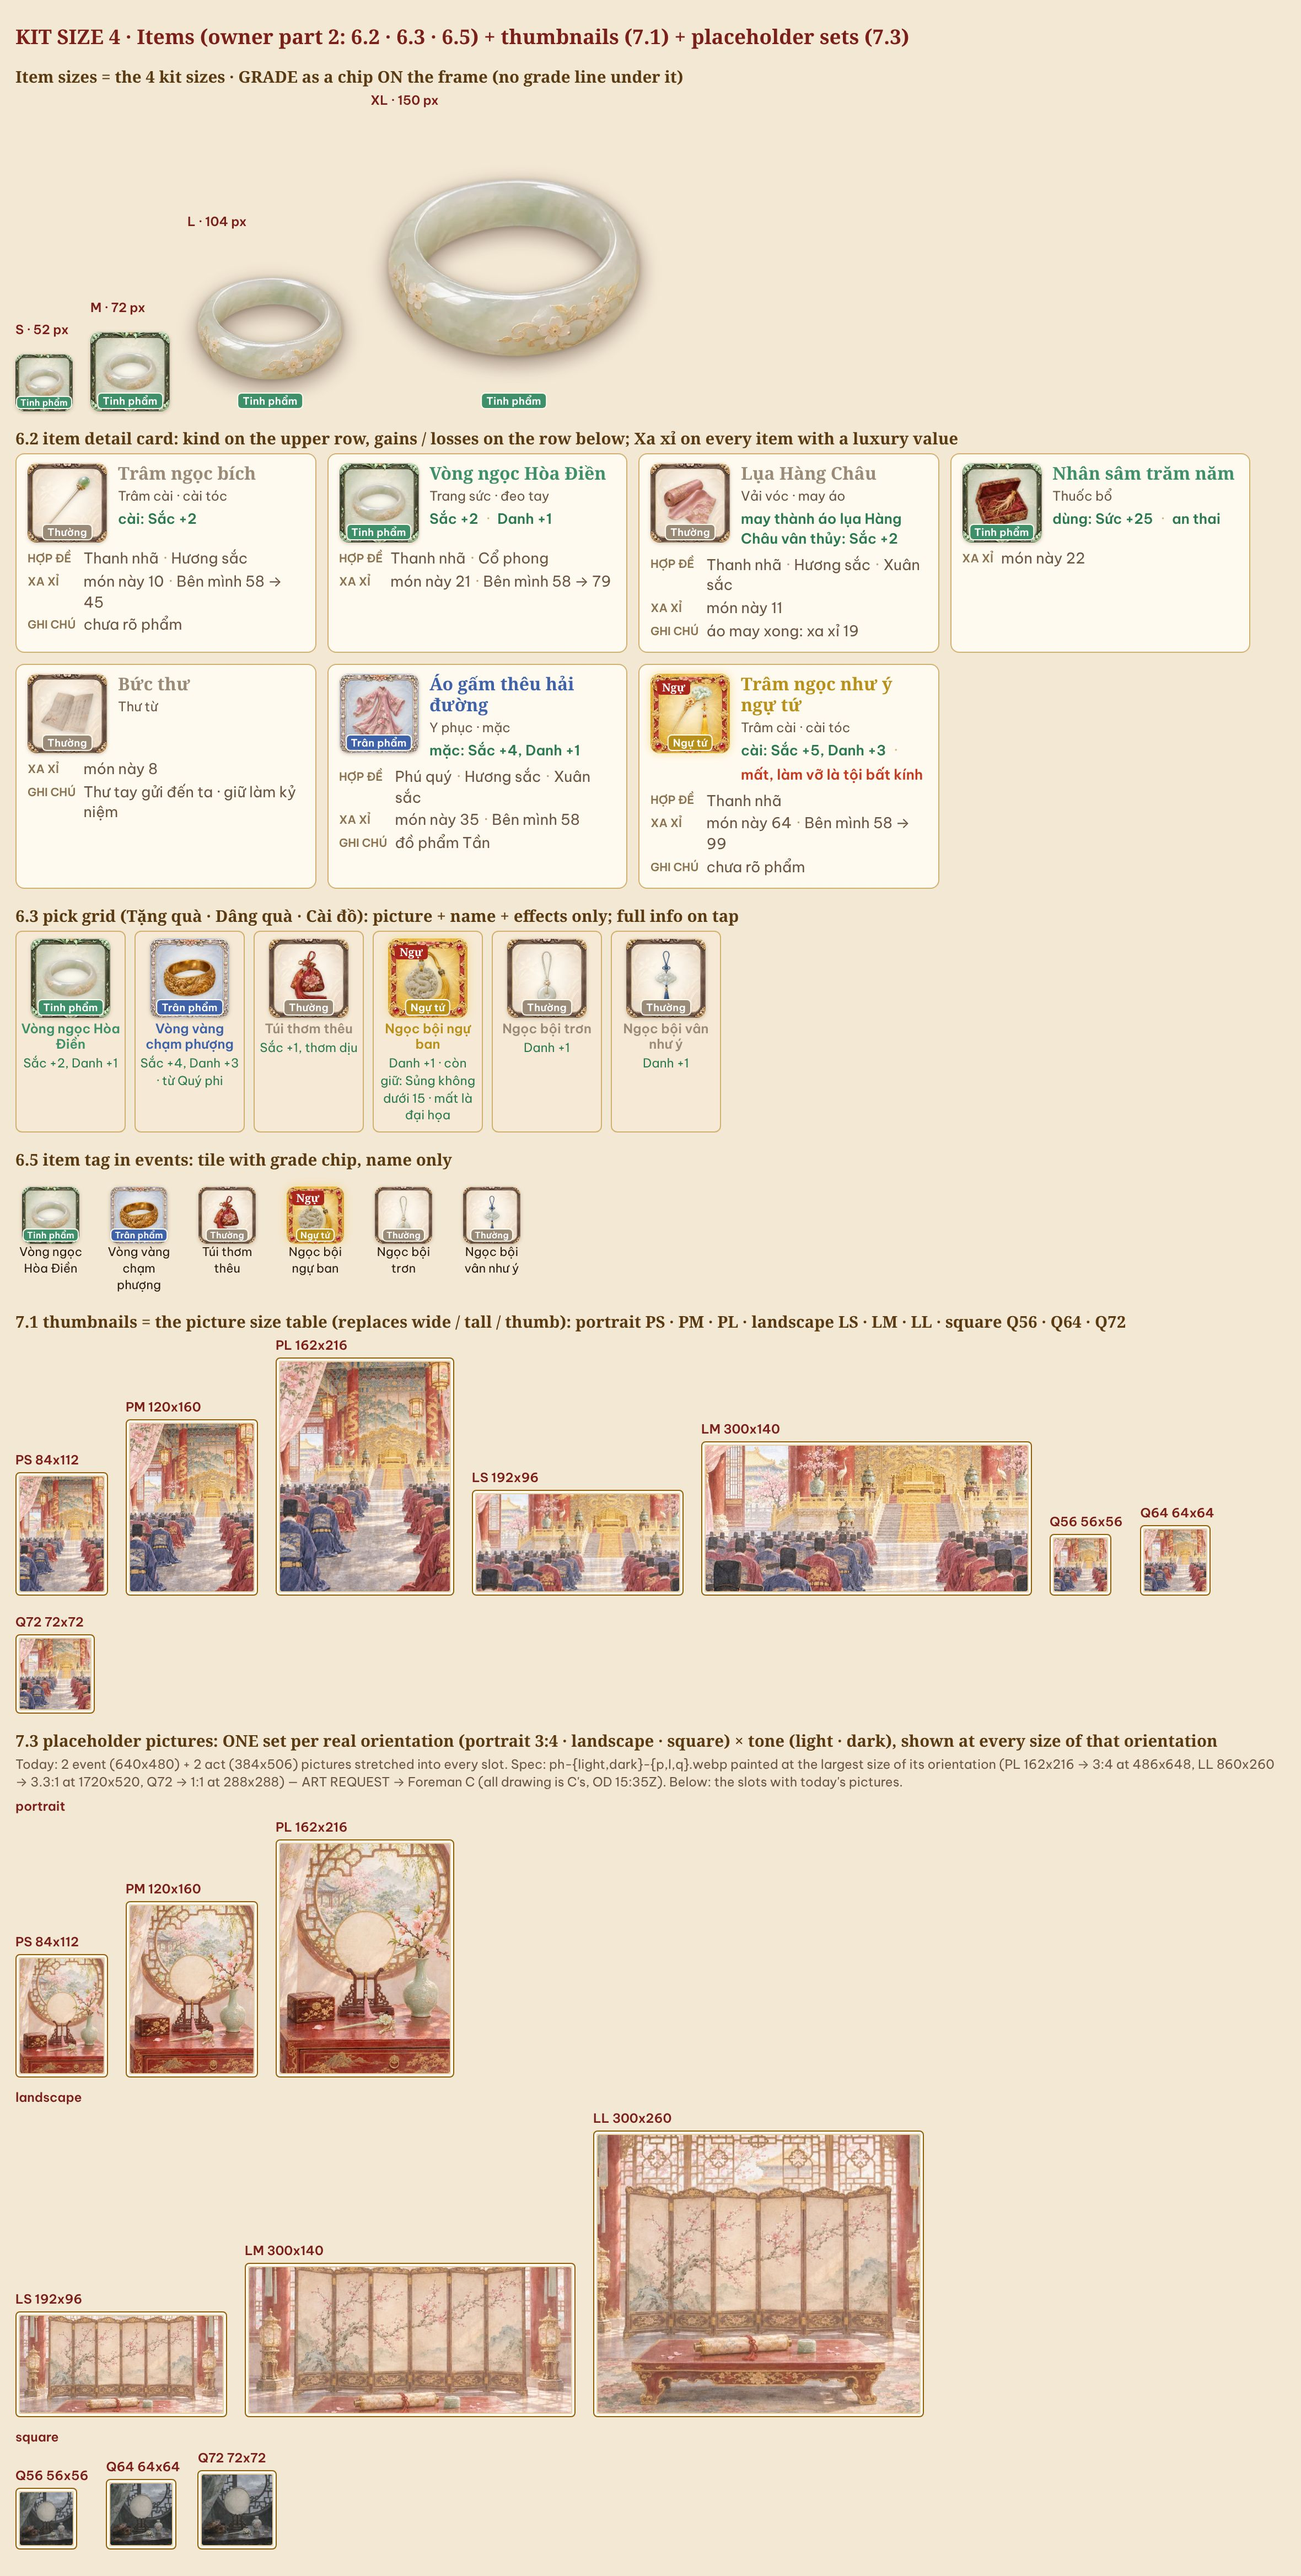
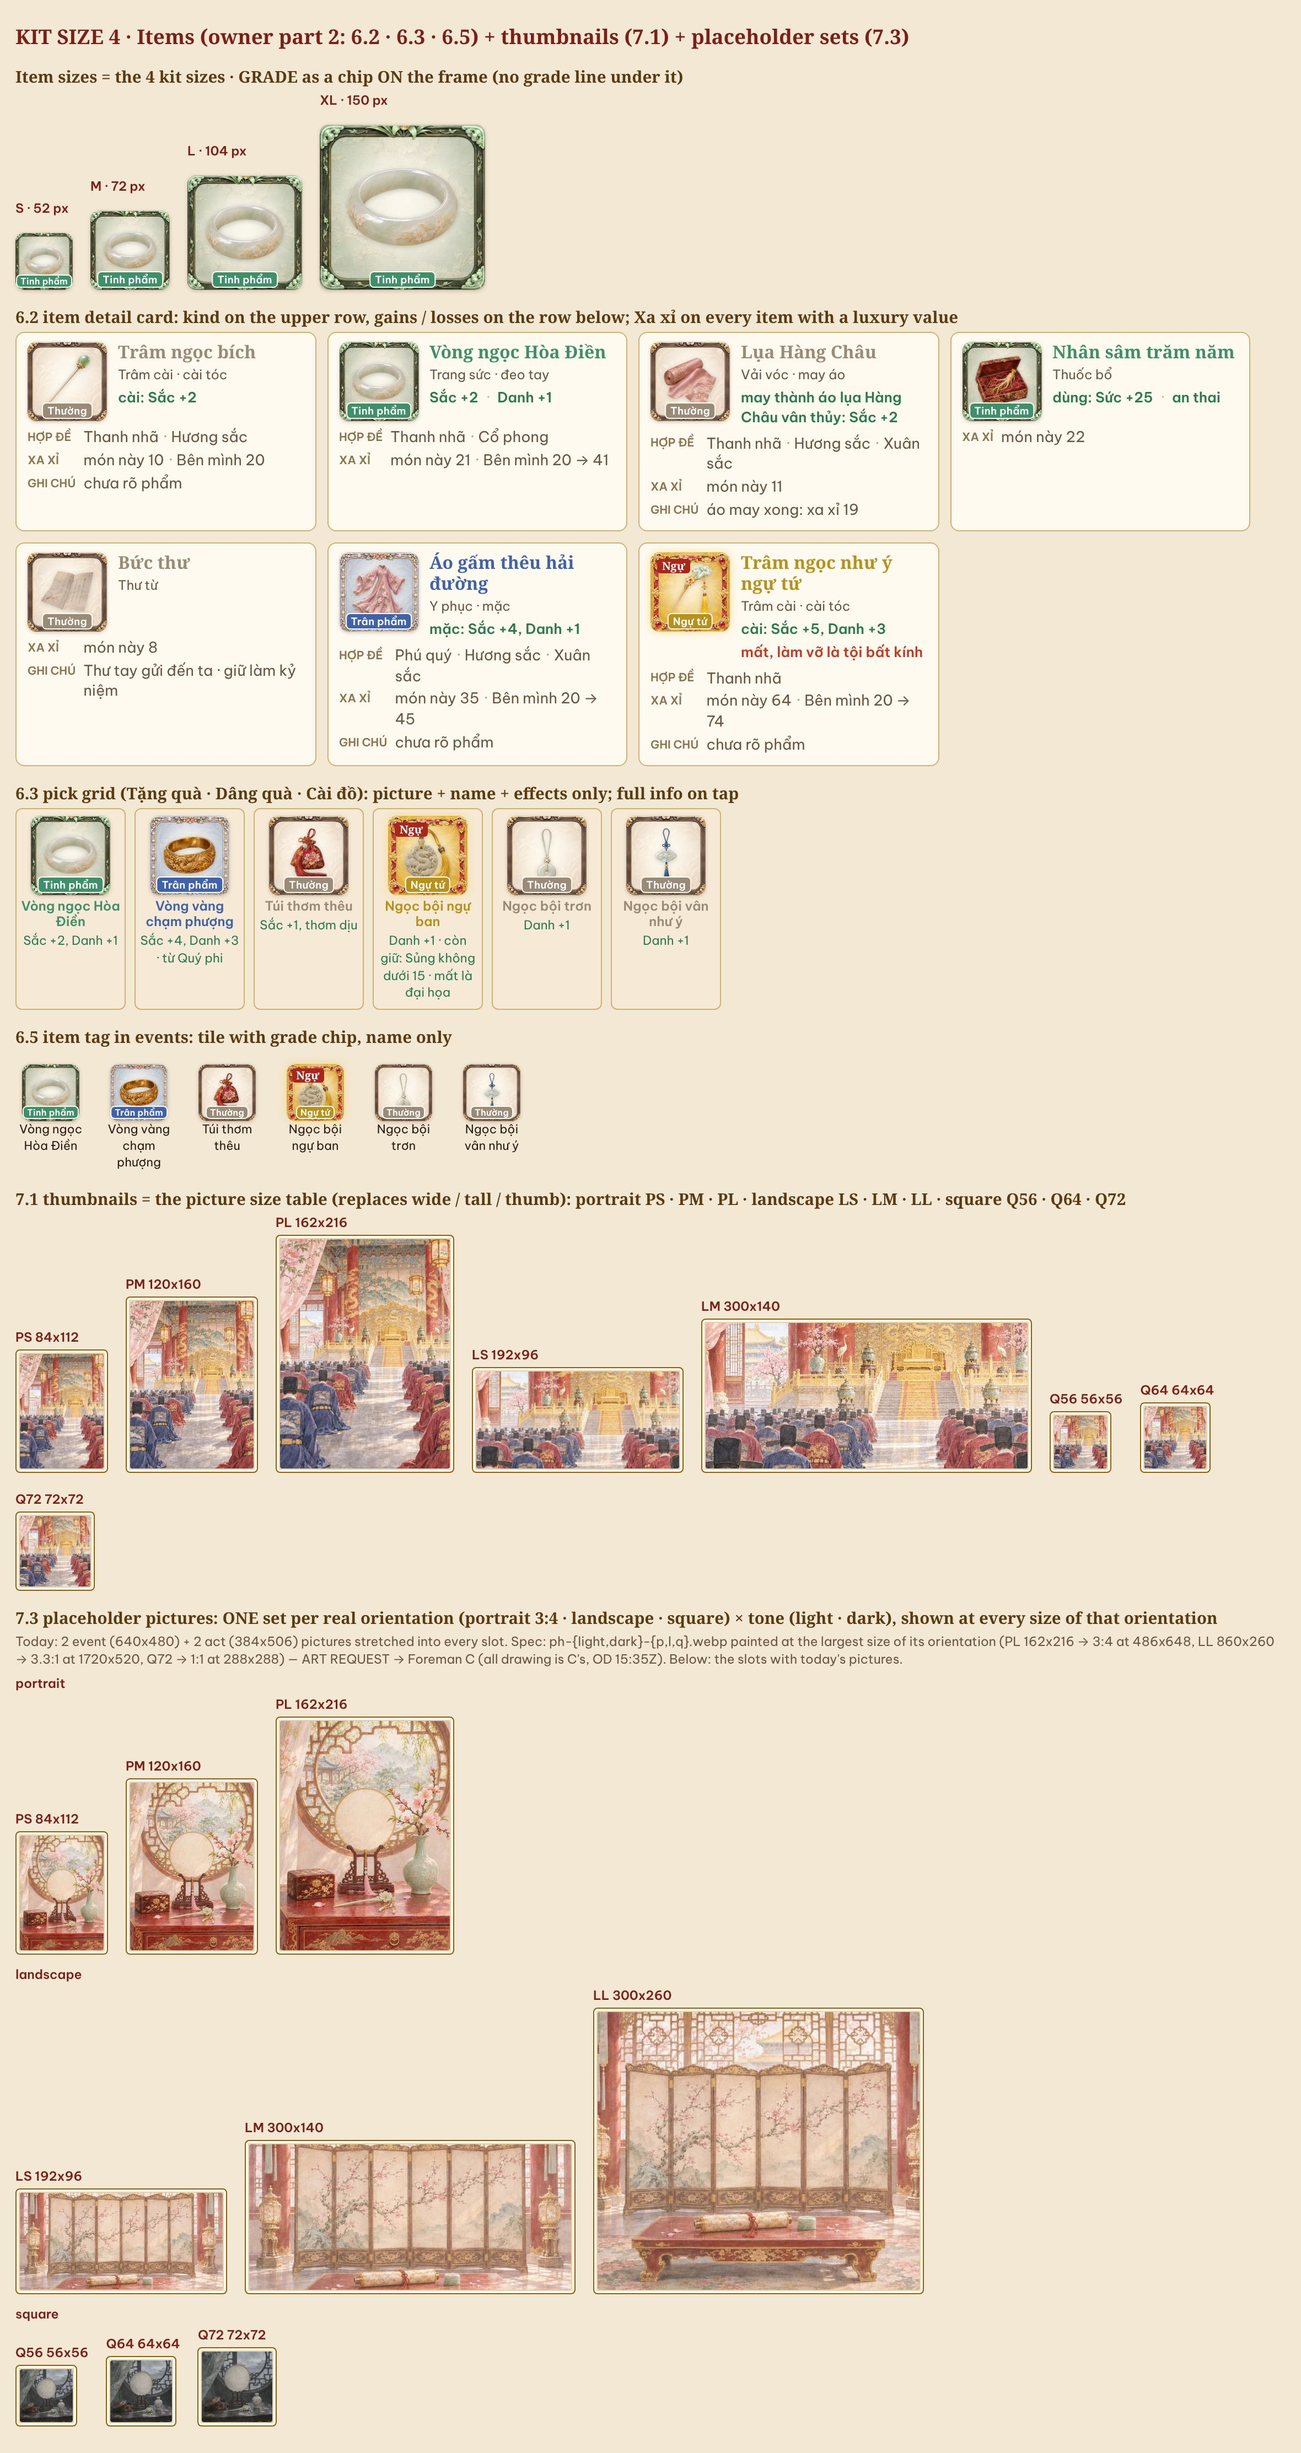
kit-size: items sheet — same kit item frame at all 4 sizes, loss on its own red line, no ghost row
Claude-Session: https://claude.ai/code/session_01UV1Szk9smUkxoioTZMD7KJ

diff --git a/dev/build/jksize.js b/dev/build/jksize.js
@@ -169,19 +169,19 @@ const KSZ_ITEM={S:"sm",M:"md",L:"lg",XL:"xl"};
 .kszidt{display:flex;flex-direction:column;gap:3px;min-width:0}
 .kszidt>b{font:700 1rem/1.2 var(--display,serif)}
 .kszidt>.kszk{font-size:.74rem;color:var(--dim,#6b5643)}
-.kszidt>.kszfx{display:flex;flex-wrap:wrap;gap:4px}
+.kszidt>.kszfx{display:flex;flex-wrap:wrap;gap:4px}.kszidt>.kszloss,.kszidt>.kszloss .ef{color:var(--bad,#c23b22)}
 .kszpick{display:grid;grid-template-columns:repeat(auto-fill,minmax(96px,1fr));gap:8px}
 .kszpick>div{display:flex;flex-direction:column;align-items:center;gap:3px;text-align:center;padding:6px 4px;border:1px solid var(--line,#d2b071);border-radius:6px;background:var(--panel2,#f6ead6)}
 .kszpick>div>b{font:600 .74rem/1.2 var(--body)}.kszpick>div>small{font-size:.7rem;color:var(--good,#2d7a52)}
 .kszphg{display:grid;grid-template-columns:auto repeat(3,auto);gap:8px 14px;align-items:end;font-size:.7rem}`;document.head.appendChild(st)})();
 function kszItemTile(k,size){const I=kitItemInfo(k);const G=KIT_GRADE[Math.max(0,Math.min(4,I.grade|0))];
- return `<span class="kszit" data-s="${size}">${kitItem({src:I.src,name:"",grade:I.grade,size:KSZ_ITEM[size]})}<b class="kszgc" style="--kgc:${G.c}">${I.gname||G.n}</b></span>`}
+ return `<span class="kszit" data-s="${size}">${kitItem({src:I.src,name:"",grade:I.grade,size:KSZ_ITEM[size],frame:true})}<b class="kszgc" style="--kgc:${G.c}">${I.gname||G.n}</b></span>`}
 function kszItemDetail(k){const I=kitItemInfo(k);const tmp=document.createElement("div");tmp.innerHTML=kitItemDetail(k,{cls:"kidet-strip"});
- const rows=[...tmp.querySelectorAll(".kidrows .kr")];const fx=[],keep=[];let kind="";
+ const rows=[...tmp.querySelectorAll(".kidrows .kr")];const fx=[],loss=[],keep=[];let kind="";
  for(const r of rows){const l=(r.querySelector(".krl")||{}).textContent||"";const v=r.querySelector(".krv");
-  if(/^(Được|Mất|dùng)/i.test(l))fx.push(v.innerHTML);else if(/^Loại/.test(l))kind=v.textContent;else if(/^Phẩm/.test(l)){}else keep.push(r.outerHTML)}
+  if(/^(Được|dùng)/i.test(l))fx.push(v.innerHTML);else if(/^(Mất|Kèm)/i.test(l))loss.push(v.innerHTML);else if(/^Loại/.test(l))kind=v.textContent;else if(/^Phẩm/.test(l)){}else keep.push(r.outerHTML)}
  if(!rows.some(r=>/^Xa xỉ/.test(r.textContent))){let lux=0;try{lux=typeof luxVal==="function"?luxVal(k):0}catch(e){}if(lux)keep.unshift(`<span class="kr"><span class="krl">Xa xỉ</span><span class="krv"><span class="ef n">món này ${lux}</span></span></span>`)}
- return `<div class="kszidc"><div class="kszidh">${kszItemTile(k,"M")}<div class="kszidt"><b style="color:${I.col||"inherit"}">${I.name}</b><span class="kszk">${kind||tmp.querySelector(".kidkind")?.textContent||""}</span><span class="kszfx">${fx.join('<span class="ksep">·</span>')}</span></div></div>${keep.length?`<span class="kb kpkb">${keep.join("")}</span>`:""}</div>`}
+ return `<div class="kszidc"><div class="kszidh">${kszItemTile(k,"M")}<div class="kszidt"><b style="color:${I.col||"inherit"}">${I.name}</b><span class="kszk">${kind||tmp.querySelector(".kidkind")?.textContent||""}</span><span class="kszfx">${fx.join('<span class="ksep">·</span>')}</span>${loss.length?`<span class="kszfx kszloss">${loss.join('<span class="ksep">·</span>')}</span>`:""}</div></div>${keep.length?`<span class="kb kpkb">${keep.join("")}</span>`:""}</div>`}
 function kszItemsSheet(){const ks=["tramngoc","vongngoc","luahang","nhansam","thu"].concat(typeof WD_ITEMS==="object"?["y_haiduong","nt_nhuy"]:[]).filter(k=>{try{return kitItemInfo(k)}catch(e){return false}});
  let h=`<h2>KIT SIZE 4 · Items (owner part 2: 6.2 · 6.3 · 6.5) + thumbnails (7.1) + placeholder sets (7.3)</h2>`;
  h+=`<h3>Item sizes = the 4 kit sizes · GRADE as a chip ON the frame (no grade line under it)</h3><div class="kszrow" style="align-items:flex-end">${["S","M","L","XL"].map(s=>`<div><div class="kszlab">${s} · ${{S:52,M:72,L:104,XL:150}[s]} px</div>${kszItemTile(ks[1]||ks[0],s)}</div>`).join("")}</div>`;
